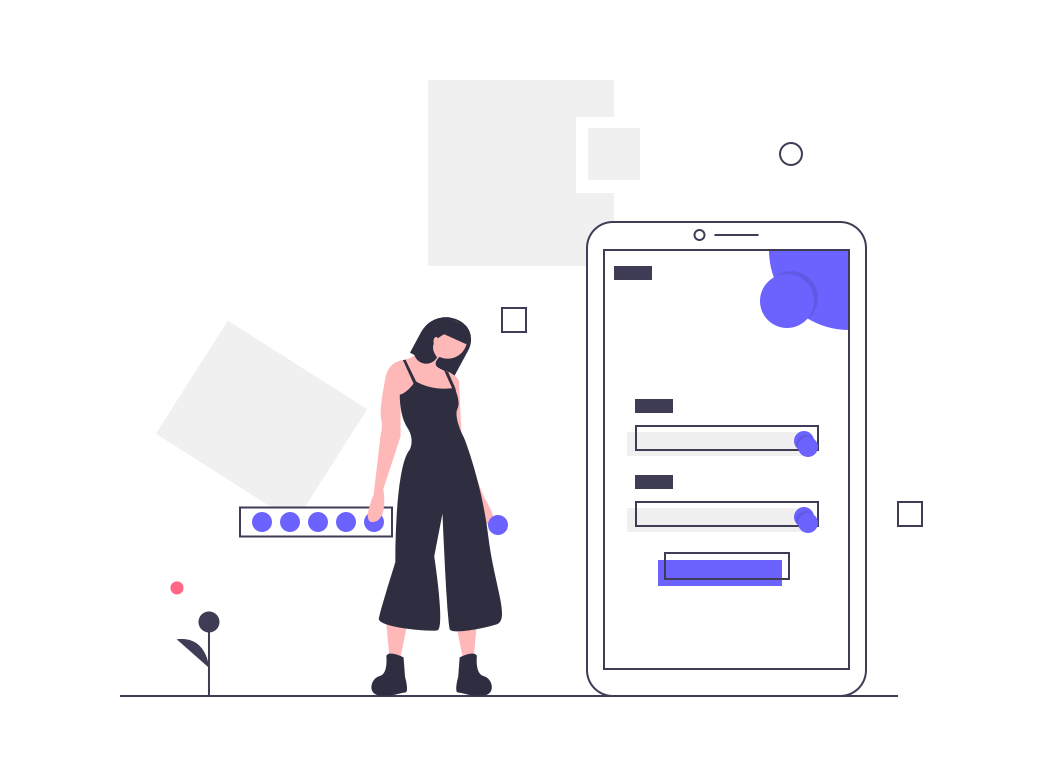
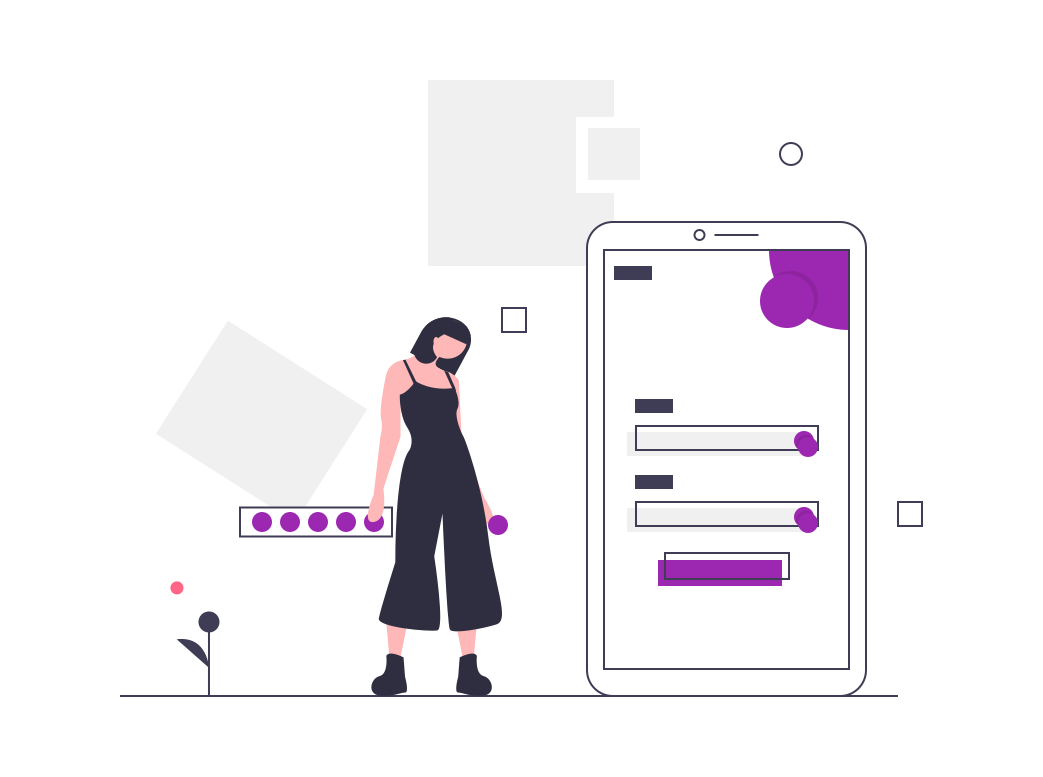
responsive screens

diff --git a/lib/routes/welcome_screen.dart b/lib/routes/welcome_screen.dart
@@ -1,83 +1,114 @@
 import 'package:flutter/material.dart';
 import 'package:social_app/routes/routes.dart';
 import 'package:social_app/widgets/social_list.dart';
-
 import 'package:social_app/widgets/widgets.dart';
 import 'package:social_app/constant.dart';
 
 class WelcomeScreen extends StatelessWidget {
+  var appBar = AppBar(
+    title: Text("App"),
+  );
+
+  bool isportrait(context) {
+    return MediaQuery.of(context).orientation == Orientation.portrait;
+  }
+
   @override
   Widget build(BuildContext context) {
+    var _pageSize = MediaQuery.of(context).size.height;
+    var _notifySize = MediaQuery.of(context).padding.top;
+    var _appBarSize = appBar.preferredSize.height;
     return Scaffold(
+      appBar: appBar,
       body: SafeArea(
         child: Padding(
           padding: const EdgeInsets.fromLTRB(10, 0, 10, 0),
-          child: Container(
-            child: Column(
-              mainAxisAlignment: MainAxisAlignment.spaceEvenly,
-              children: [
-                Image.asset('images/welcome.png'),
-                Text(
-                  'Welcome',
-                  style: TextStyle(fontWeight: FontWeight.bold, fontSize: 20),
-                ),
-                Text(kAppDescription,
-                    textAlign: TextAlign.center, style: kDarkLightStyle),
-                Row(
-                  mainAxisAlignment: MainAxisAlignment.spaceAround,
-                  children: [
-                    ReusableButton(
-                      function: () {
-                        Navigator.push(
-                          context,
-                          MaterialPageRoute(
-                            builder: (context) => LoginScreen(),
-                          ),
-                        );
-                      },
-                      textColor: Colors.white,
-                      title: 'Login',
-                      backgroundColor: kPurpleColor,
-                      border: Colors.transparent,
-                    ),
-                    ReusableButton(
-                      function: () {
-                        Navigator.push(
-                          context,
-                          MaterialPageRoute(
-                            builder: (context) => SignUpScreen(),
-                          ),
-                        );
-                      },
-                      textColor: Colors.black,
-                      title: 'Sign Up',
-                      backgroundColor: Colors.white,
-                      border: Colors.black,
-                    )
-                  ],
-                ),
-                Text(
-                  'or via Social Media',
-                  textAlign: TextAlign.center,
-                  style: kDarkStyle,
-                ),
-                SocialListWidget(),
-                Row(
-                  mainAxisAlignment: MainAxisAlignment.center,
-                  children: [
-                    Text(
-                      'Don\'t have an account?',
-                      textAlign: TextAlign.center,
-                      style: kDarkLightStyle,
-                    ),
-                    Text(
-                      'Signup',
-                      textAlign: TextAlign.center,
-                      style: kDarkStyle,
-                    ),
-                  ],
-                )
-              ],
+          child: SingleChildScrollView(
+            child: Container(
+              height: isportrait(context)
+                  ? _pageSize - (_appBarSize + _notifySize)
+                  : null,
+              child: Column(
+                mainAxisAlignment: MainAxisAlignment.spaceEvenly,
+                children: [
+                  Image.asset('images/welcome.png'),
+                  Text(
+                    'Welcome',
+                    style: TextStyle(fontWeight: FontWeight.bold, fontSize: 20),
+                  ),
+                  SizedBox(
+                    height: isportrait(context) ? 0 : 5,
+                  ),
+                  Text(kAppDescription,
+                      textAlign: TextAlign.center, style: kDarkLightStyle),
+                  SizedBox(
+                    height: isportrait(context) ? 0 : 10,
+                  ),
+                  Row(
+                    mainAxisAlignment: MainAxisAlignment.spaceAround,
+                    children: [
+                      ReusableButton(
+                        function: () {
+                          Navigator.push(
+                            context,
+                            MaterialPageRoute(
+                              builder: (context) => LoginScreen(),
+                            ),
+                          );
+                        },
+                        textColor: Colors.white,
+                        title: 'Login',
+                        backgroundColor: kPurpleColor,
+                        border: Colors.transparent,
+                      ),
+                      ReusableButton(
+                        function: () {
+                          Navigator.push(
+                            context,
+                            MaterialPageRoute(
+                              builder: (context) => SignUpScreen(),
+                            ),
+                          );
+                        },
+                        textColor: Colors.black,
+                        title: 'Sign Up',
+                        backgroundColor: Colors.white,
+                        border: Colors.black,
+                      )
+                    ],
+                  ),
+                  SizedBox(
+                    height: isportrait(context) ? 0 : 10,
+                  ),
+                  Text(
+                    'or via Social Media',
+                    textAlign: TextAlign.center,
+                    style: kDarkStyle,
+                  ),
+                  SizedBox(
+                    height: isportrait(context) ? 0 : 10,
+                  ),
+                  SocialListWidget(),
+                  SizedBox(
+                    height: isportrait(context) ? 0 : 5,
+                  ),
+                  Row(
+                    mainAxisAlignment: MainAxisAlignment.center,
+                    children: [
+                      Text(
+                        'Don\'t have an account?',
+                        textAlign: TextAlign.center,
+                        style: kDarkLightStyle,
+                      ),
+                      Text(
+                        'Signup',
+                        textAlign: TextAlign.center,
+                        style: kDarkStyle,
+                      ),
+                    ],
+                  )
+                ],
+              ),
             ),
           ),
         ),

diff --git a/lib/routes/signup_screen.dart b/lib/routes/signup_screen.dart
@@ -18,18 +18,33 @@ class _SignUpScreenState extends State<SignUpScreen> {
   String email;
   String password;
   String confirmPassword;
+  var appBar = AppBar(
+    title: Text("Sign Up"),
+  );
+
+  bool isportrait(context) {
+    return MediaQuery.of(context).orientation == Orientation.portrait;
+  }
 
   @override
   Widget build(BuildContext context) {
+    var _pageSize = MediaQuery.of(context).size.height;
+    var _notifySize = MediaQuery.of(context).padding.top;
+    var _appBarSize = appBar.preferredSize.height;
     return Scaffold(
+      appBar: appBar,
       body: SafeArea(
         child: SingleChildScrollView(
           child: Center(
             child: Padding(
-              padding: const EdgeInsets.fromLTRB(8, 20, 8, 0),
+              padding: const EdgeInsets.fromLTRB(8, 0, 8, 0),
               child: Container(
+                height: isportrait(context)
+                    ? _pageSize - (_appBarSize + _notifySize)
+                    : null,
                 child: Column(
                   crossAxisAlignment: CrossAxisAlignment.center,
+                  mainAxisAlignment: MainAxisAlignment.spaceAround,
                   children: [
                     Container(
                       child: Column(
@@ -45,6 +60,9 @@ class _SignUpScreenState extends State<SignUpScreen> {
                           ),
                         ],
                       ),
+                    ),
+                    SizedBox(
+                      height: isportrait(context) ? 0 : 10,
                     ),
                     Container(
                       child: Form(
@@ -95,28 +113,31 @@ class _SignUpScreenState extends State<SignUpScreen> {
                               obscureText: true,
                               validator: _confirmPassword,
                             ),
-                            SizedBox(
-                              height: 5,
-                            ),
-                            ReusableButton(
-                              function: () {
-                                //postUser();
-                                if (_key.currentState.validate()) {
-                                  setState(() {});
-                                  print(email);
-                                  print(password);
-                                  postUser();
-                                }
-                              },
-                              textColor: Colors.white,
-                              title: 'Sign Up',
-                              backgroundColor: kPurpleColor,
-                              border: Colors.transparent,
-                            ),
                           ],
                         ),
                       ),
-                    )
+                    ),
+                    SizedBox(
+                      height: isportrait(context) ? 0 : 20,
+                    ),
+                    ReusableButton(
+                      function: () {
+                        //postUser();
+                        if (_key.currentState.validate()) {
+                          setState(() {});
+                          print(email);
+                          print(password);
+                          postUser();
+                        }
+                      },
+                      textColor: Colors.white,
+                      title: 'Sign Up',
+                      backgroundColor: kPurpleColor,
+                      border: Colors.transparent,
+                    ),
+                    SizedBox(
+                      height: isportrait(context) ? 0 : 5,
+                    ),
                   ],
                 ),
               ),

diff --git a/lib/routes/login_screen.dart b/lib/routes/login_screen.dart
@@ -15,18 +15,30 @@ class LoginScreen extends StatefulWidget {
 
 class _LoginScreenState extends State<LoginScreen> {
   final _key = GlobalKey<FormState>();
-
-  String email;
-
   String password;
+  String email;
+  var appBar = AppBar(
+    title: Text("App"),
+  );
+
+  bool isportrait(context) {
+    return MediaQuery.of(context).orientation == Orientation.portrait;
+  }
 
   @override
   Widget build(BuildContext context) {
+    var _pageSize = MediaQuery.of(context).size.height;
+    var _notifySize = MediaQuery.of(context).padding.top;
+    var _appBarSize = appBar.preferredSize.height;
     return Scaffold(
+      appBar: appBar,
       body: SingleChildScrollView(
         child: Padding(
           padding: const EdgeInsets.fromLTRB(10, 0, 10, 0),
           child: Container(
+            height: isportrait(context)
+                ? _pageSize - (_appBarSize + _notifySize)
+                : null,
             child: Column(
               mainAxisAlignment: MainAxisAlignment.spaceEvenly,
               children: [
@@ -67,8 +79,6 @@ class _LoginScreenState extends State<LoginScreen> {
                           // Validate returns true if the form is valid, or false otherwise.
                           if (_key.currentState.validate()) {
                             setState(() {});
-                            print(email);
-                            print(password);
                             checkUser();
                           }
                         },
@@ -81,7 +91,7 @@ class _LoginScreenState extends State<LoginScreen> {
                   ),
                 ),
                 SizedBox(
-                  height: 40,
+                  height: isportrait(context) ? 0 : 10,
                 ),
                 Text(
                   'or via Social Media',
@@ -89,11 +99,11 @@ class _LoginScreenState extends State<LoginScreen> {
                   style: kDarkStyle,
                 ),
                 SizedBox(
-                  height: 10,
+                  height: isportrait(context) ? 0 : 10,
                 ),
                 SocialListWidget(),
                 SizedBox(
-                  height: 10,
+                  height: isportrait(context) ? 0 : 10,
                 ),
                 Row(
                   mainAxisAlignment: MainAxisAlignment.center,

diff --git a/lib/constant.dart b/lib/constant.dart
@@ -3,7 +3,7 @@ import 'package:flutter/material.dart';
 final kAppDescription =
     'App allows to post your photos and stay up to date with the real world news';
 
-final kPurpleColor = Color(0xff6d63ff);
+final kPurpleColor = Color(0xff9C27B0);
 
 final kDarkLightStyle =
     TextStyle(color: Colors.black45, fontWeight: FontWeight.w400, fontSize: 15);

diff --git a/lib/main.dart b/lib/main.dart
@@ -12,7 +12,7 @@ class MyApp extends StatelessWidget {
       debugShowCheckedModeBanner: false,
       title: 'Flutter Demo',
       theme: ThemeData(
-        primarySwatch: Colors.red,
+        primarySwatch: Colors.purple,
       ),
       home: WelcomeScreen(),
     );
